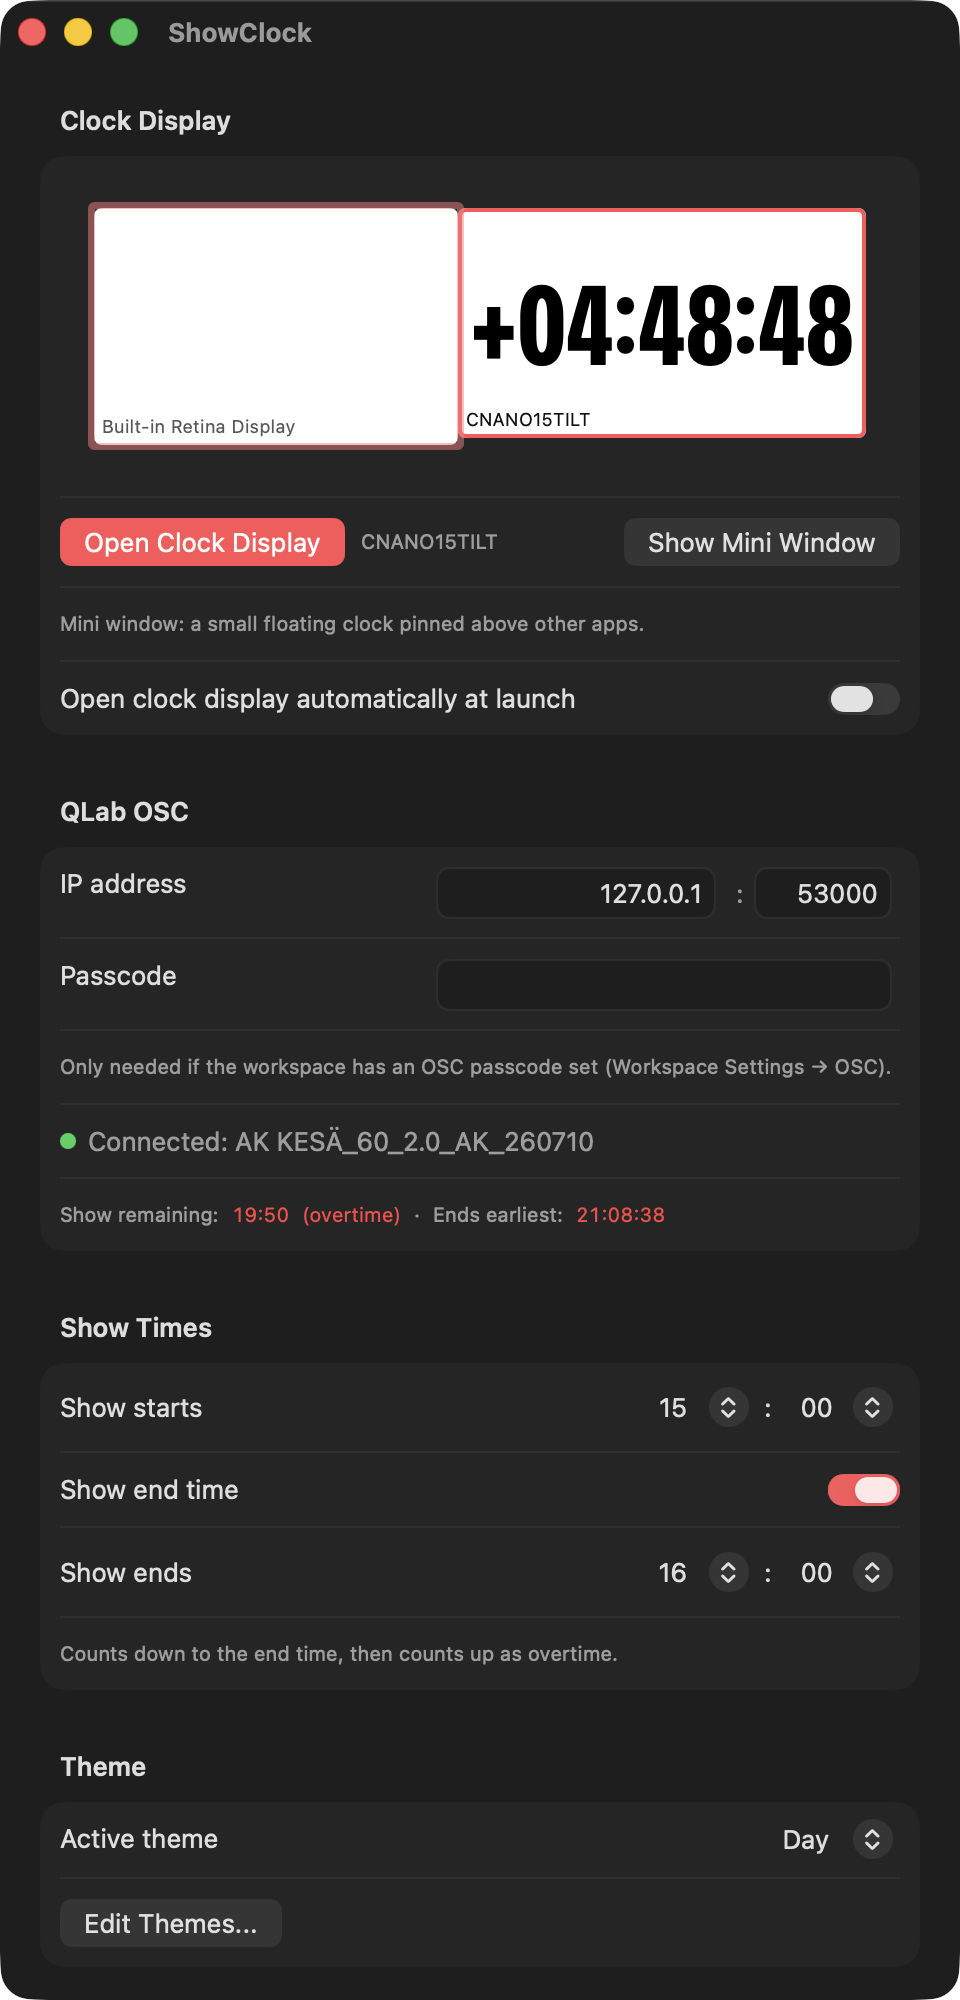
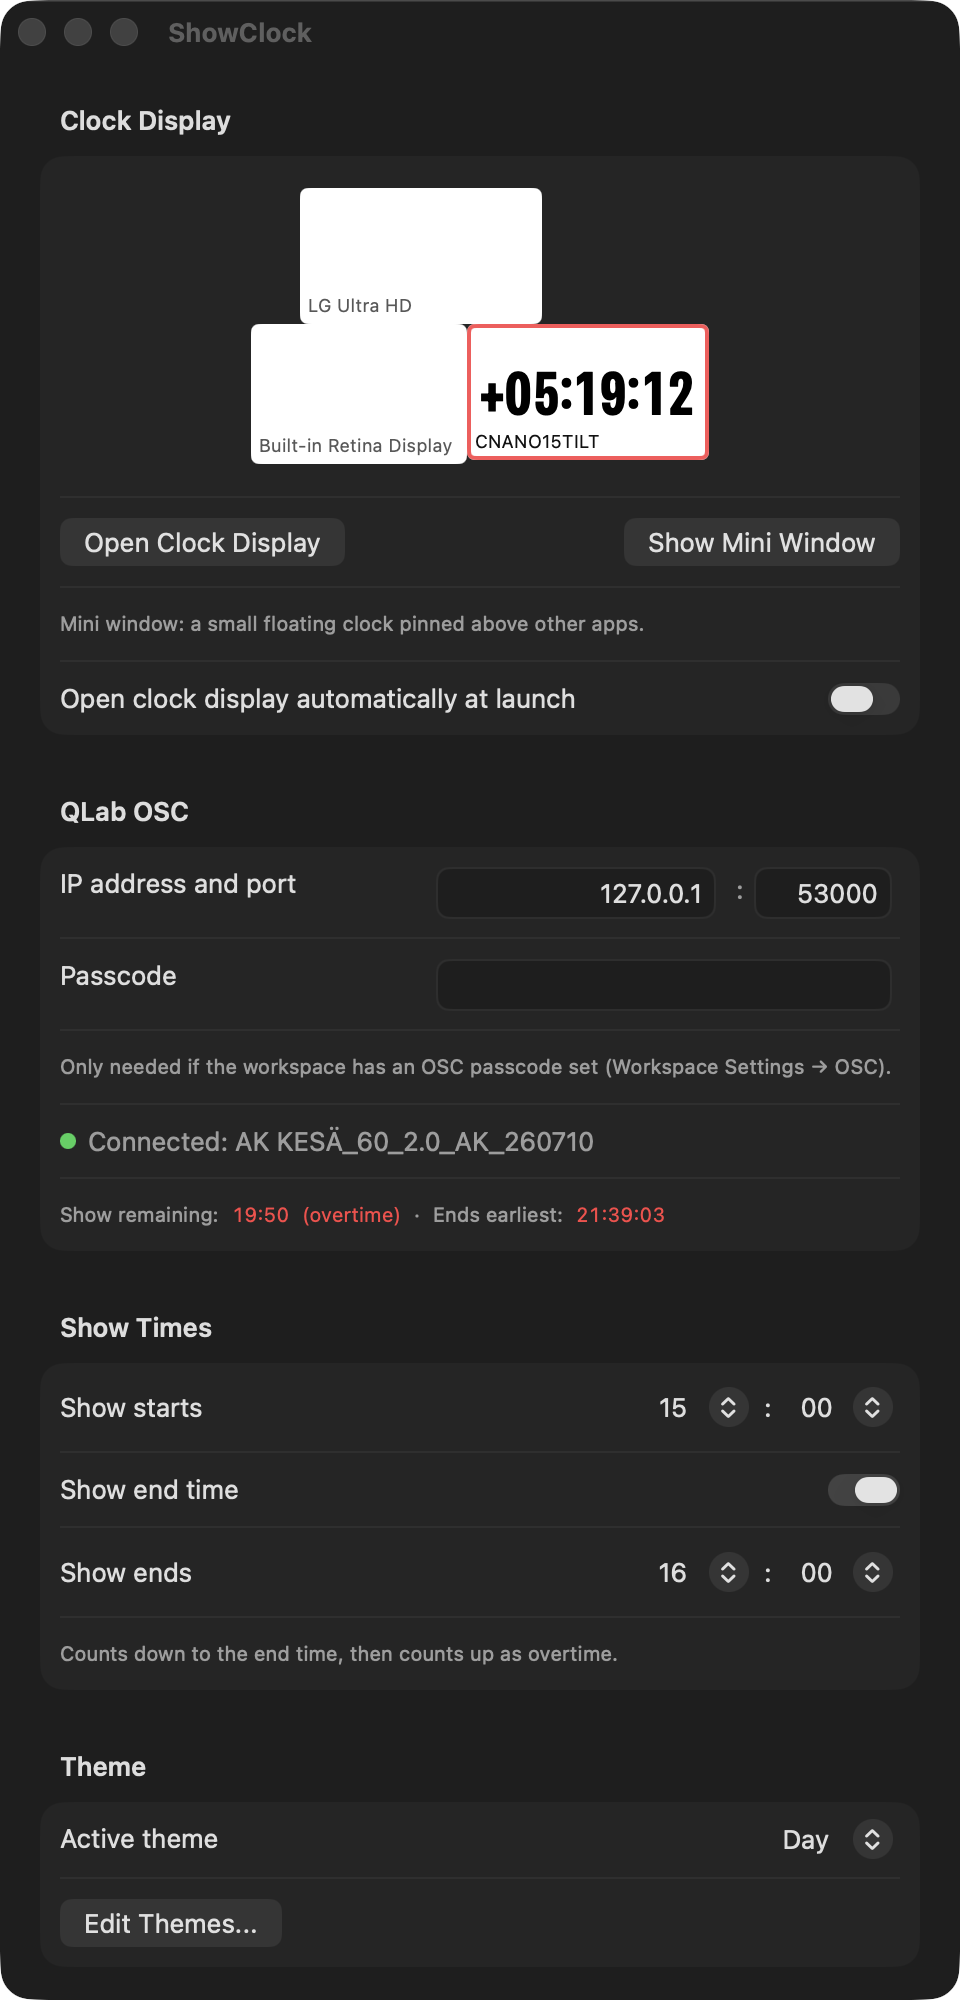
Drop the duplicated display name, centre the colon, clarify the label
The display name appeared twice in the Clock Display section: inside the
arrangement diagram and again beside the Open button, where it sat between
two buttons and read as belonging to either. The diagram labels every
screen and marks the chosen one, so the second copy only added ambiguity.

The colon between host and port sat visibly low against the field boxes —
a colon's dots sit near the baseline while its line box reserves ascender
space above — so it's nudged up 2pt. Label now reads "IP address and port"
since the row holds both.

Claude-Session: https://claude.ai/code/session_01Q7MbnAwNDDNtDy4pWbSyjC

diff --git a/Sources/ShowClock/MainView.swift b/Sources/ShowClock/MainView.swift
@@ -55,12 +55,11 @@ struct MainView: View {
                     }
                     .buttonStyle(.borderedProminent)
 
-                    if let screen = settings.resolvedScreen {
-                        Text(screen.localizedName)
-                            .font(.caption)
-                            .foregroundStyle(.secondary)
-                    }
-
+                    // No display name here: the arrangement diagram above
+                    // labels every screen and marks the chosen one, so
+                    // repeating it beside the button said the same thing
+                    // twice — and ambiguously, since it sat between two
+                    // buttons and read as belonging to either.
                     Spacer()
 
                     Button(miniWindow.isShowing ? "Hide Mini Window" : "Show Mini Window") {
@@ -87,14 +86,19 @@ struct MainView: View {
                 // port box ~19pt below the host box beside it. LabeledContent
                 // declares which part is the label and which is the control,
                 // so the whole endpoint aligns as one.
-                LabeledContent("IP address") {
+                LabeledContent("IP address and port") {
                     HStack(spacing: 6) {
                         TextField("", text: $settings.qlabHost)
                             .textFieldStyle(.roundedBorder)
                             .multilineTextAlignment(.trailing)
                             .focused($focusedField, equals: .host)
+                        // Nudged up ~2pt: a colon's dots sit down near the
+                        // baseline while its line box reserves ascender space
+                        // above, so left alone it reads visibly low against
+                        // the vertical centre of the two field boxes.
                         Text(":")
                             .foregroundStyle(.secondary)
+                            .offset(y: -2)
                         TextField("", text: $portText)
                             .textFieldStyle(.roundedBorder)
                             .multilineTextAlignment(.trailing)
